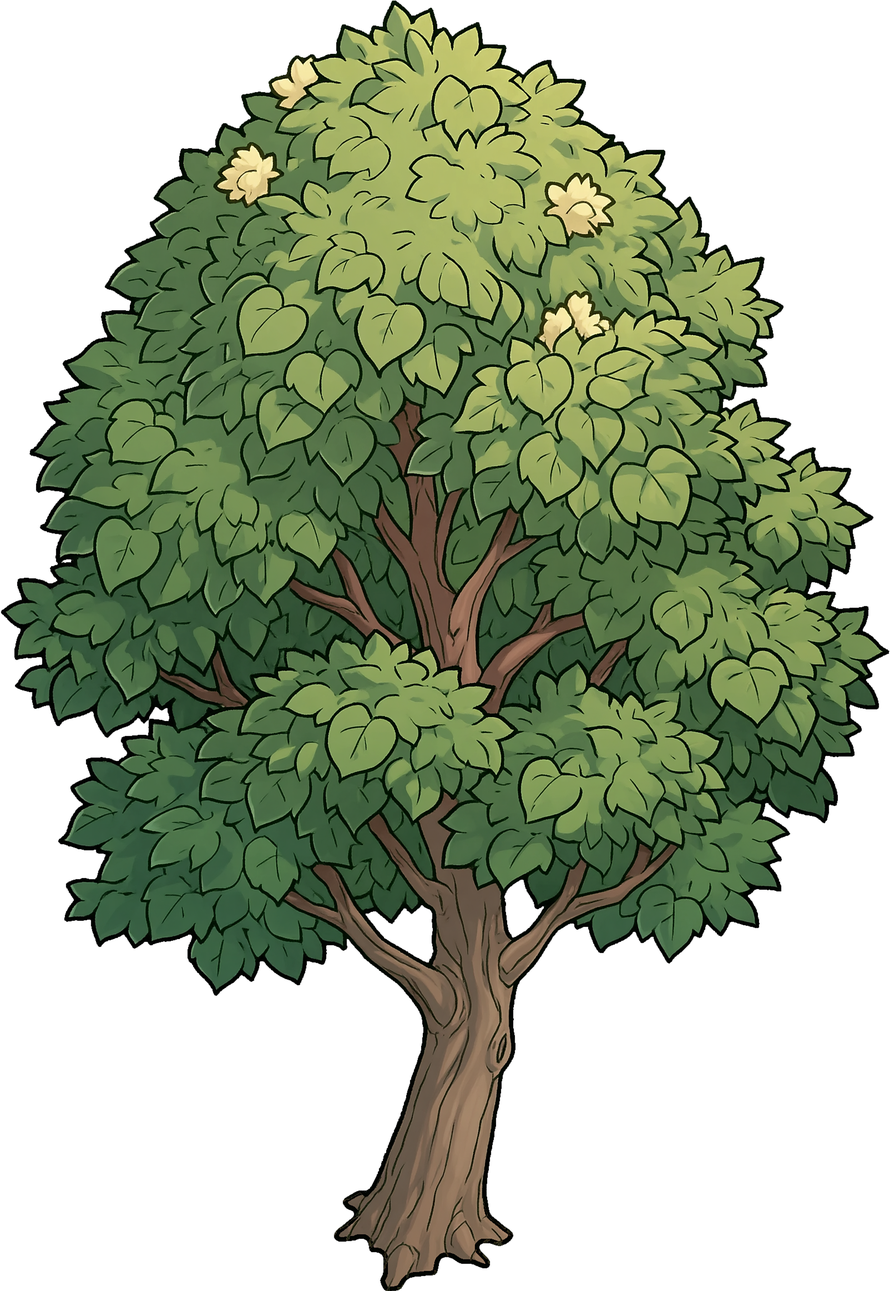
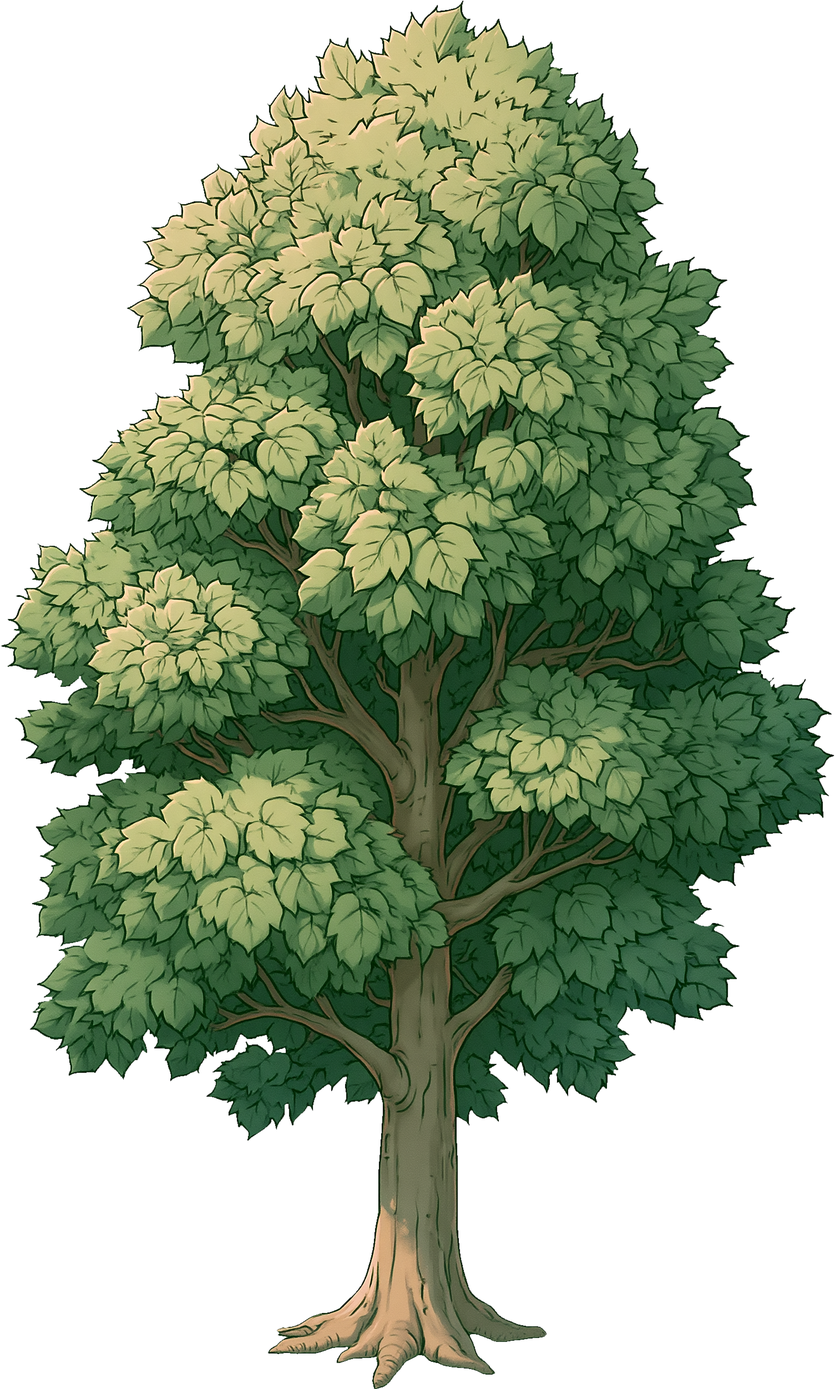
feat(content): oak, alder and linden drawn anew, each recognisable by its form and leaves
Each was made first as a realistic photograph, then redrawn in the game's
style with it as the image prompt and our hazel, yew and chestnut as style
references, then cleared of grass and shadow. The oak and the alder are
short of their size (square frame) and join the short images of the test.
flora_art.py clears pale, colourless pixels left of the background inside
a tree; clean_tree_feet.py can close a gap between two trunks at the foot.

diff --git a/content/tools/clean_tree_feet.py b/content/tools/clean_tree_feet.py
@@ -27,6 +27,8 @@ height), in this order:
   the grass clearing took (pale, nearly colourless pixels);
 - `span`: clears what stands left or right of the foot (x from, x to, in
   the original's pixels: a patch of ground running off to the side);
+- `close`: fills a gap closed all round within the foot, however wide
+  (between two trunks that touch just above the ground);
 - `smooth`: rounds the foot's outline (a closing then an opening, of that
   radius in pixels): the notches the grass left, a ragged edge;
 then holes left inside the trunk are filled with the bark around them, what
@@ -46,17 +48,16 @@ import flora_art  # noqa: E402
 
 # id: what to do. Each line says why (what the original shows).
 RECIPES = {
-    # Two tufts of grass either side of the foot, the colour of the bark's
-    # light green rim: cut off where they stand out of the trunk.
-    "alder_01": {"band": 0.06, "span": (695, 880), "smooth": 4},
+    # Small tufts of grass at the foot of both trunks, and the gap between
+    # them closed under the point where they touch (the alder drawn on
+    # 18 November 2026).
+    "alder_01": {"band": 0.08, "grass": True, "close": True, "smooth": 4},
     # Grass all along the foot, on a dark strip of ground running off both
     # sides.
     "alder_02": {"band": 0.05, "grass": True, "span": (585, 1035), "smooth": 6},
     # Tufts of grass on both sides, some pale, and a grey ring around the
     # outline.
     "ash_02": {"band": 0.07, "halo": True, "grass": True, "grass_saturation": 0.15, "smooth": 5},
-    # A torn, ragged foot with no outline (as Midjourney redrew it).
-    "linden_01": {"band": 0.09, "smooth": 6},
     # A torn foot, left so when the grass and flowers were painted out.
     "wild_apple_01": {"band": 0.09, "smooth": 6},
     # A patch of white ground with grass strokes to the right of the foot.
@@ -259,6 +260,17 @@ def clean(rgb, recipe):
     # filled; what opens on the background is background.
     holes = band & ~keep & ~reached(~keep, ~sil & ~band | ~grow(sil, 2))
     keep |= holes
+    if recipe.get("close"):
+        # A gap closed all round within the foot (between two trunks that
+        # touch above it) is filled too, however wide: the ground must not
+        # show through the foot. Channels under 3 px (where the trunks
+        # nearly touch) count as closed: the background is reached through
+        # the free space shrunk by 2 px, then grown back.
+        rim = np.zeros((h, w), bool)
+        rim[0], rim[-1], rim[:, 0], rim[:, -1] = True, True, True, True
+        free = ~grow(keep, 2)
+        outside = grow(reached(free, free & (rim | ~band)), 3)
+        keep |= band & ~keep & ~outside
     # The foot's outline rounded, then one piece.
     keep = np.where(band, smooth(keep, recipe.get("smooth", 4)), keep)
     labels, sizes = pieces(keep)

diff --git a/content/tools/flora_art.py b/content/tools/flora_art.py
@@ -296,6 +296,24 @@ def bleed(image, passes=8):
     return Image.fromarray(out, "RGBA")
 
 
+# Trees pale by nature (the birch's and the ash's bark, the linden's
+# flowers), left as they are by `clear_pale`.
+PALE_TREES = ("birch", "ash", "linden")
+
+
+def clear_pale(image):
+    """Clears what is left of the white background inside a tree: pale,
+    colourless pixels (a sliver along a hole's rim, a dot between leaves),
+    the client's test `has no pale specks` reading them so. The light the
+    trees are drawn with is pale too, but yellow, and stays."""
+    a = np.asarray(image).copy()
+    rgb = a[..., :3].astype(np.int16)
+    lo, hi = rgb.min(axis=2), rgb.max(axis=2)
+    pale = (a[..., 3] > 102) & (lo > 186) & (hi - lo <= 20)
+    a[..., 3][pale] = 0
+    return Image.fromarray(a)
+
+
 def species_heights(content):
     text = (content / "species.ron").read_text()
     return {m[0]: float(m[1]) for m in re.findall(r'id: "([a-z_]+)".*?height_m: ([0-9.]+)', text, re.S)}
@@ -403,6 +421,8 @@ def main():
             image = trim_to_foot(cut(path, keep_white=False, tree=True, work=work_height(tall)))
             image = fit(image, tall, original, path.name, short)
             image = image.filter(ImageFilter.UnsharpMask(radius=1.2, percent=60, threshold=2))
+            if not kind.startswith(PALE_TREES):
+                image = clear_pale(image)
             target = art / "trees" / f"{kind}_adult_{n}_summer.webp"
             save_webp(image, target)
             print("tree", target.name, image.size)

diff --git a/content/art/trees/README.md b/content/art/trees/README.md
@@ -148,3 +148,22 @@ fruit window are drawn bare until their fruit is made.
 The walnut and the sweet chestnut are back to the size their sources give
 (2,203 and 1,881 px high, short of 2,660 and 2,816): nothing is enlarged.
 They are read whole from a farther zoom until they are made again bigger.
+
+**18 November 2026, oak, alder and linden drawn anew**: the project lead
+found them hard to tell apart by their leaves. Each was first made as a
+realistic photograph in Midjourney, then redrawn in the game's style with
+that photograph as the image prompt and our hazel, yew and sweet chestnut
+as style references, then cleared of its grass and shadow by a Midjourney
+edit. The oak: a broad, twisted, knotted trunk, lobed leaves in the lit
+clusters. The alder: narrow, conical and dark, two trunks, round leaves.
+The linden: tall and regular, heart-shaped leaves (the other versions
+drew maple leaves). They keep their own colours (no `match_tree_colours`:
+they are new identities). The oak and the alder were made on a square
+frame and are short of their size (1,850 and 1,886 px high, for 2,496 and
+2,257): nothing is enlarged; a tall frame (`--ar 1:2` or `2:3`) is the
+way to make a tree taller in pixels. The linden is 2,504 px, near its
+2,660. The old sources are kept in
+`content/ai-reserve/sources/trees/identite-2026-11-18/anciennes-sources/`.
+`flora_art.py` now clears the pale, colourless pixels left of the white
+background inside a tree (`clear_pale`, the client test's own measure),
+except on the birch, the ash and the linden, pale by nature.
